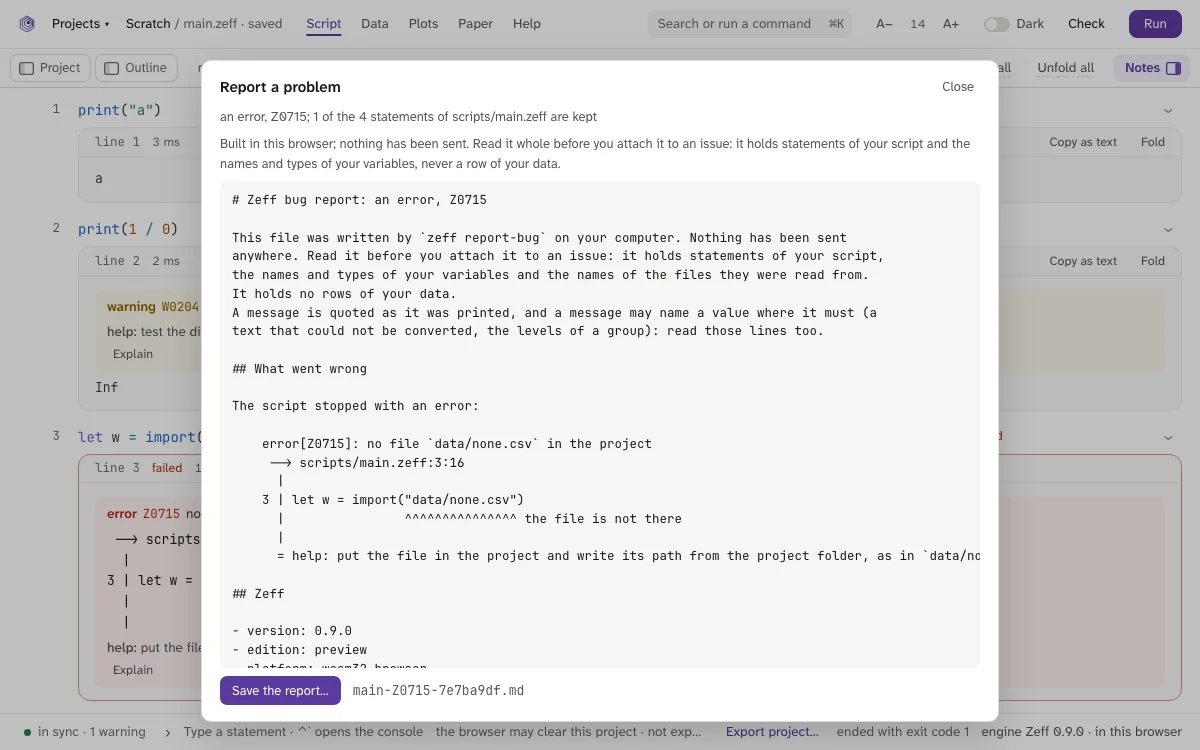
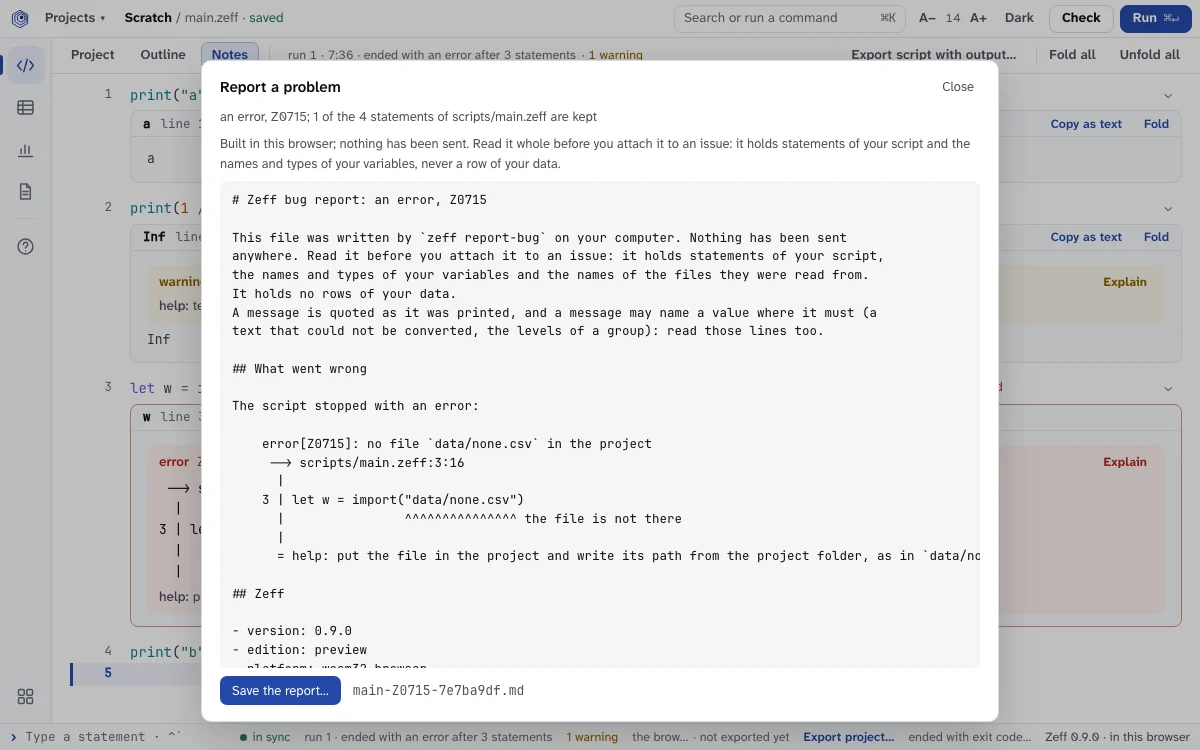
Bring the pages of Using Zemp Lite and their pictures to the new screens (release 0.3.1, step 14)
The pages say the projects' table, the row's Export…, Export all projects…, the list that Projects opens and the rows over each place; the fourteen pictures are made again from the running app. What the release built is listed, screen by screen, for the coordinating session.

Chromium is wholly green, and the nine checks of the address pass here against the built app. In WebKit on this computer, whose screen is locked, tests among the same 21 as before fail at a real press of the mouse; GitHub's check runs them.

diff --git a/tools/pictures/pictures.spec.ts b/tools/pictures/pictures.spec.ts
@@ -116,14 +116,16 @@ const SCENES: Record<string, (page: Page, press: Press) => Promise<void>> = {
     await page.getByLabel("The name of the new project").fill("Returns to schooling");
     await press(page.getByRole("button", { name: "Create" }));
     await expect(page.getByRole("status")).toHaveText(READY);
-    await press(page.getByTitle("Back to the projects of this browser"));
+    await press(places(page).getByRole("button", { name: "All projects" }));
     await press(page.getByRole("button", { name: "Actions for Returns to schooling" }));
     await expect(page.getByRole("menuitem", { name: "Export project…" })).toBeVisible();
   },
-  // Where the work is kept: the screen of projects, with its sentence on where they are kept.
+  // Where the work is kept: the screen of projects on a first visit, with its note on where
+  // they are kept at the foot of the column on the left.
   "the-screen-of-projects": async (page) => {
     await page.goto("/");
     await expect(page.getByRole("button", { name: /^Scratch project/ })).toBeVisible();
+    await expect(page.getByTestId("first-visit")).toBeVisible();
   },
   // Reporting a problem: the report of a script that fails, shown whole.
   "the-report": async (page, press) => {
@@ -145,7 +147,7 @@ const SCENES: Record<string, (page: Page, press: Press) => Promise<void>> = {
     // As a visitor who has not been given the sample before.
     await page.evaluate(() => localStorage.removeItem("zemp-scratch-paper"));
     await press(places(page).getByRole("button", { name: "Paper" }));
-    await expect(page.getByTestId("paper-path")).toHaveText("paper/paper.typ");
+    await expect(page.getByTestId("paper-path")).toContainText("paper/paper.typ");
     await expect(page.getByTestId("paper-pages")).toHaveText("1 page", { timeout: 60_000 });
     const picture = page.getByTestId("paper-page").first().locator("img");
     await expect

diff --git a/tests/browser/using-controls.spec.ts b/tests/browser/using-controls.spec.ts
@@ -162,8 +162,14 @@ const SCREENS: Record<
     await see();
     await scratch(page, press);
     await see();
+    // Back on the screen of projects, where the project has its row, with Export… at its end.
+    await press(page.getByRole("button", { name: "All projects" }));
+    await expect(page.getByRole("button", { name: "Actions for Scratch" })).toBeVisible();
+    await see();
   },
   "where-the-work-is-kept": async (page, press, see) => {
+    // The screen of projects, with its note and what exports every project; then a project.
+    await see();
     await scratch(page, press);
     await see();
   },
@@ -171,6 +177,11 @@ const SCREENS: Record<
     await scratch(page, press);
     await run(page, press);
     await see();
+    // The list that Projects opens, at the top left, has the report too.
+    await press(page.getByRole("button", { name: /^Projects/ }));
+    await expect(page.getByRole("menuitem", { name: "Report a problem…" })).toBeVisible();
+    await see();
+    await page.keyboard.press("Escape");
     // A script that fails, and its report.
     await write(
       page,

diff --git a/docs/decisions.md b/docs/decisions.md
@@ -3796,3 +3796,37 @@ The wait is there at the trial address every time and at the address once in fou
 
 **Tests.** Of the build's tool (`tools/facts.test.mjs`): the example is the kept script and its print is what the engine, run again, prints, to the character, and what the tool gives the build; an example that fails, prints nothing or is not three lines stops the build with a sentence. Browser, both engines (`start.spec.ts`): the headline's face, size, italic and accent, unbroken; its line; the three facts side by side under the button; the old band and words gone; the faint watermark; the foot; the page on one screen at 1,440 × 900, 1,280 × 800 and 1,024 × 768; the example as the kept script in the editor's colours, its print equal to the build's and to what the engine just started prints for it in a project; no line of it cut or broken at 1,440, 1,024 and 1,000 pixels; and, as before, the button grey until the engine runs, opened by the mouse and by Return, the bar, a failure and Try again, 12.5 pixels and 4.5 to 1 in both themes. The notice's tests hold it to the window at a phone's and an upright tablet's width (the watermark first made it 53 pixels wider than a phone's window; it is now held inside).
 
+## 28 November 2026: release 0.3.1, step 14: Using Zemp Lite and its pictures
+
+**Built.** The fourteen pages of Using Zemp Lite say what the new screens hold, and their fourteen pictures are made again by the picture suite (`npm run pictures`), in light, at 1,200 × 750 pixels, from the Scratch project. Five pages had been brought up to date with the step that changed their screen (Getting started's places, The notes, The Data place, The Plots place, Papers and PDFs, Finding help, Keyboard shortcuts); this step did the rest and read every page against the app.
+
+**What changed at this step, page by page.**
+
+- _Getting started_: the front page starts the engine and opens the app; the Scratch project is at the head of the column on the left.
+- _Projects, scripts and files_: the projects as a table (scripts, last run, size, opened, exported), a press on a row, **Find a project**, **Open** and **Export…** on a row beside its menu; **Project** is in the row over the script; a file that is read only says so at the top of the window.
+- _Running a script_ and _Sections and the outline_: "the row over the script" where they said "the bar".
+- _The Data place_ and _The Plots place_: what their pictures show.
+- _Where the work is kept_: the picture's words; the note at the foot of the screen of projects, with the room used; **Export all projects…**.
+- _Exporting and opening a project_: **Export…** on a row, **Projects** at the top left, **Export all projects…**, and that a browser may ask once about saving several files.
+- _Reporting a problem_: **Report a problem…** in **Projects**.
+- _Commands with ⌘K_, _The notes_, _Papers and PDFs_, _Finding help_, _Keyboard shortcuts_: read against the app, unchanged at this step.
+
+**For the owner to read, when he wishes:** the fourteen pages, in Help under Using Zemp Lite (their text is in `src/using/pages/`): Getting started; Projects, scripts and files; Running a script; The notes beside each statement; Sections and the outline; The Data place; The Plots place; Papers and PDFs; Finding help; Commands with ⌘K; Keyboard shortcuts; Exporting and opening a project; Where the work is kept; Reporting a problem.
+
+**For the coordinating session: what release 0.3.1 built, for section 5 of the Zemp Specification and the design guide.**
+
+- _Computers only (#243)._ Below 1,000 pixels of width a page over the app says Zemp Lite is made for a computer, with **Go on anyway** (kept for the visit). The phone layouts are gone. Where the pointer is a finger, whatever is pressed is at least 32 pixels.
+- _Cobalt (#244)._ The accent and its hover, soft and button values in both themes; a function's name in teal and an operator in slate in code; cool greys.
+- _The frame (#245; #33 amended)._ A top bar of 38 pixels: **Projects ▾** (All projects, Export project…, Rename project…, Report a problem…), the project and file with `saved`, the field of commands, the code's size, **Dark**, **Check**, **Run**. A side menu of 52 pixels: five icons (Script, Data, Plots, Paper, Help) and **All projects**, each named with what it holds and its key on hover and on focus; ⌘1 to ⌘5. A line of 26 pixels at the foot: the console's field, how the results stand to the script, the run's line, the warnings, the reminder on where the work is kept with **Export project…**, and the engine.
+- _Script._ A row of 36 pixels: **Project**, **Outline**, **Notes** as words, the run's line, **Export script with output…**, **Fold all**, **Unfold all**. A result's head on one line (name, line, time, **Copy as text**, **Fold**); **Explain** opens the code's page in Help, which links back to the line; a note leads to Data or Plots; a function's card under the pointer and by ⇧F1.
+- _Data._ One row: the frames as a menu, the frame's facts, **Data** and **Variables**, **Keep rows where**, **Search the cells**, **Copy as Zeff**. Rows of 25 pixels. A column selected by its head, with its summary in a line under the table.
+- _Plots._ The run's plots as a strip in the row, with **Compare**; **Fit**, **One column**, **Two columns**, **Slide**; **Pop out**; the plot under the row; a panel of 300 pixels at the right (**The plot**) with its statement, the format, **Save…** and the statement that saves it.
+- _Paper._ A row: **Project**, **Outline**, the paper and where its tables and figures come from, **Close**, **New paper…**, **Export PDF…**, **Page**. The Outline lists tables and figures among the headings.
+- _Help._ The index at the left: the search field (/), **Start here**, **Packages**, **Functions**, **Errors and warnings**, **Using Zemp Lite**; what the search finds stands in the index's place. **Back**, **Forward**, **Home** and the trail in the bar. **See also** under "On this page". **Try in the console** under an example.
+- _The projects screen._ A column (Scratch project, New project…, Open project…, Open folder… for the desktop app; the note, the room used, **Export all projects…**) and the projects as a table with a field that finds one, **Open**, **Export…** and a menu on each row, and three cards. The browser remembers how each project's last run went.
+- _The front page._ The headline, its line, **Start**, three facts; the engine's card with three lines of script and their print from the carried engine; the versions and the licence at the foot.
+- _Kept with a project._ The view file is at version 6: the panes of Data and of Plots are as the steps left them.
+- _Drawn in the mockup and not built, each for a ruling:_ a favicon; ⇧⌘E; the coloured dots of a note's kind; "Past runs" in the Project panel; a page "Coming from R or Stata"; the app working with no network; a regression's table on the front page. _Found in the engine:_ 64 of its 266 help pages have no section on R and Stata, `reg`'s among them. _Counted here:_ a figure's number in a paper's Outline, in the order of the paper.
+
+**Tests.** The help suite (`using-controls.spec.ts`): every control a page names is on the screen by that name, with the scenes extended to the projects' table with a row, the note on the screen of projects, and the list **Projects** opens; the unit test that holds the pages and the pictures to each other; the pictures' suite, whose scenes for the menu of a project, the screen of projects and the Paper place were brought to the new screens. Each of the fourteen pictures was looked at: none shows the old frame.
+

diff --git a/src/using/pages/projects-scripts-and-files.md b/src/using/pages/projects-scripts-and-files.md
@@ -4,13 +4,13 @@ A project is a folder of scripts and data kept in this browser: make one, fill i
 
 ## Projects
 
-The screen of projects lists the projects this browser keeps. **New project…** makes one, with a first script. **Scratch project** is always there, with its examples, for trying things. From inside a project, **All projects**, at the foot of the icons down the left, goes back to the list. **Projects**, at the top left, opens a short list for the project as a whole: back to all projects, export it, rename it, report a problem.
+The screen of projects lists the projects this browser keeps, as a table, the one opened last first: each with its scripts, how its last run went here (clean, with warnings, stopped by an error, or not run), its size, and when it was opened and exported. Press a row to open its project. **Find a project**, over the table, keeps the rows whose name, or a script's name, holds what you type. In the column on the left, **New project…** makes one, with a first script, and **Scratch project** is always there, with its examples, for trying things. From inside a project, **All projects**, at the foot of the icons down the left, goes back to the list. **Projects**, at the top left, opens a short list for the project as a whole: back to all projects, export it, rename it, report a problem.
 
-Each project in the list has a menu at the right of its row: **Rename…**, **Duplicate…**, **Export project…** and **Delete…**. The Scratch project cannot be renamed or deleted; it can be duplicated into a project of your own, and reset to its examples.
+Each project in the table has **Open** and **Export…** at the end of its row, and beside them a menu: **Rename…**, **Duplicate…**, **Export project…** and **Delete…**. The Scratch project cannot be renamed or deleted; it can be duplicated into a project of your own, and reset to its examples.
 
 ## The files of a project
 
-**Project**, at the left of the bar under the top bar, opens the pane of the project's files. Press a file to open it.
+**Project**, at the left of the row over the script, opens the pane of the project's files. Press a file to open it.
 
 ![The Script place with the Project pane open at the left: the folders of the Scratch project, scripts and data, with a menu button at the right of each row.](the-project-pane)
 
@@ -19,7 +19,7 @@ The **+** at the head of the list, beside the project's name, adds to the projec
 - **New script** and **New folder**: type the name in the row where it will stand.
 - **Add files…**: data files from this computer, which a script can then read.
 
-A script, a paper and a plain note open to be written. Any other file that is text, such as a table a script exported or a data file of comma-separated values, opens to be read: its tab says that it is read only, and nothing typed changes it. A file that is not text does not open; **Save a copy…**, in its menu, saves it to this computer.
+A script, a paper and a plain note open to be written. Any other file that is text, such as a table a script exported or a data file of comma-separated values, opens to be read: the line at the top of the window says that it is read only, beside its name, and nothing typed changes it. A file that is not text does not open; **Save a copy…**, in its menu, saves it to this computer.
 
 Each file and folder has a menu at the right of its row: **Rename…**, **Move to…**, **Duplicate**, **Delete…** and **Save a copy…**, which saves the file to this computer. The files Zeff opens by name, the main script and `zeff.toml` among them, keep their names and places: their menus have no rename, move or delete.
 

diff --git a/src/using/pages/where-the-work-is-kept.md b/src/using/pages/where-the-work-is-kept.md
@@ -8,14 +8,14 @@ A project lives in the private storage this browser gives the app. Nothing of it
 
 What you type is saved as you type it. The line at the top of a project says `saved` beside the file's name when it is.
 
-![The screen of projects: four cards, New project…, Open project…, Open folder… and Scratch project; under them the note that says where projects are kept and how one is taken out; and at the right, where recent projects are listed, the words No project yet and a button that opens the Scratch project.](the-screen-of-projects)
+![The screen of projects on a first visit: at the left a column with Scratch project, New project…, Open project… and Open folder…, and at its foot the note that says where projects are kept, with Export all projects… under it; at the right the table of projects, with the Scratch project alone in it, and three cards under the table.](the-screen-of-projects)
 
 ## What can remove it
 
 - Clearing the site's data in the browser removes every project.
-- A browser may clear the storage by itself when the computer runs short of room. The app asks the browser not to, and the screen of projects says whether it has agreed.
+- A browser may clear the storage by itself when the computer runs short of room. The app asks the browser not to, and the note at the foot of the screen of projects says whether it has agreed. Where the browser tells it, the note also says how much room the app's data takes.
 - In a private window nothing is kept: a project lasts until the tab is closed, and the screen says so.
 
 ## The reminder
 
-Where the browser may clear a project, or a project has not been exported for thirty days, the foot of the window says so, with **Export project…** beside it. A zip on this computer is the copy that is yours to keep: see [Exporting and opening a project](exporting-and-opening-a-project).
+Where the browser may clear a project, or a project has not been exported for thirty days, the foot of the window says so, with **Export project…** beside it. A zip on this computer is the copy that is yours to keep: see [Exporting and opening a project](exporting-and-opening-a-project). **Export all projects…**, under the note on the screen of projects, saves every project at once, each as a zip of its own.

diff --git a/docs/progress.md b/docs/progress.md
@@ -94,6 +94,8 @@ Opened on the owner's word once Zeff 0.9.0 was released, planned (`docs/releases
 
 **Done, step 13 `[function]`.** The front page (#245, as completed): the headline "Reproducible empirical research, in your browser.", its line, Start, three facts; the engine's card with its three steps and three lines of script with what the engine prints for them, taken at the build; the watermark faint; a foot with the versions and the licence. The narrow window's notice is drawn the same way. Green in Chromium; in WebKit here the same tests as before fail at the locked screen.
 
-**Next.** Step 14 `[function]`: Using Zemp Lite's fourteen pages and their fourteen pictures remade for the new screens.
+**Done, step 14 `[function]`.** Using Zemp Lite (#245): the fourteen pages say what the new screens hold, and their fourteen pictures are made again from the running app; none shows the old frame. What 0.3.1 built is listed, screen by screen, for the coordinating session (the entry of step 14 in `docs/decisions.md`). Green in Chromium; in WebKit here the same tests as before fail at the locked screen.
+
+**Next.** Step 15 `[engine]`: the pre-release routine of the testing handbook, section 2.4, the notes of the release and the registers; the release itself waits for the owner's "Release 0.3.1".
 
 **For the owner to decide.** Nothing. **His to read when he wishes:** the words of the page a narrow window is shown (the entry of step 3 in `docs/decisions.md`, choice 4). **For him to know:** at a tablet's width the foot shortens the note on where the work is kept to its last words ("… · not exported yet"), the one text of the frame that is shortened there (step 5, choice 4); and Data's row shortens a panel's facts there ("15,571 rows × 13 variables · panel worker × year"), whole in the frames' menu (step 8a, choice 5). **His to try by hand, in his own browser:** whether ⌘1 to ⌘5 open the places or the browser keeps them for its tabs (step 4, choice 5).

diff --git a/docs/releases/0.3.1.md b/docs/releases/0.3.1.md
@@ -78,5 +78,5 @@ To be shown to him as they are met, not asked now: the front page and the projec
 
 ### E. Help agrees, and the release
 
-- [ ] **14. [function] Using Zemp Lite and its pictures.** The 14 pages say what the new screens hold: the side menu, the rows, the menus and the projects table. The 14 pictures are made again by the picture suite, in light, with the Scratch project. The pages are listed for the owner to read, and what was built is listed for the coordinating session, for section 5 of the Zemp Specification and the design guide. Tests: the help suite (every name of a control a page uses found on screen); the pictures' suite. Done when: the routine is green and no page or picture shows the old frame.
+- [x] **14. [function] Using Zemp Lite and its pictures.** The 14 pages say what the new screens hold: the side menu, the rows, the menus and the projects table. The 14 pictures are made again by the picture suite, in light, with the Scratch project. The pages are listed for the owner to read, and what was built is listed for the coordinating session, for section 5 of the Zemp Specification and the design guide. Tests: the help suite (every name of a control a page uses found on screen); the pictures' suite. Done when: the routine is green and no page or picture shows the old frame.
 - [ ] **15. [engine] The pre-release routine.** The whole routine in both engines at a laptop's size and at 1,024 × 768. The measure against R4, with what the release added to the bundle, expected under 10 KB packed. The first start no slower than at 0.3. The trial address, then the address. `docs/releases/0.3.1-notes.md` (what changed, the rulings, the tests replaced and why, the measures, known issues). The registers reviewed for the coordinating session. Done when: both addresses pass every check and the notes are complete; the release itself (version `0.3.1`, tag `v0.3.1`, the GitHub release with its notes) waits for the owner's word "Release 0.3.1".

diff --git a/src/using/pages/exporting-and-opening-a-project.md b/src/using/pages/exporting-and-opening-a-project.md
@@ -4,7 +4,9 @@ A project leaves the browser as one zip, and comes back from one: to keep it saf
 
 ## Exporting
 
-**Export project…** saves the project as a zip on this computer. It is in three places: in a project's menu on the screen of projects; in the list of commands, as `Project: export…`, while the project is open; and at the foot of the window, beside the reminder to export, when there is one.
+**Export project…** saves the project as a zip on this computer. On the screen of projects, **Export…** at the end of a project's row saves it without opening it, and the menu beside it has the same. With the project open, it is in **Projects**, at the top left; in the list of commands, as `Project: export…`; and at the foot of the window, beside the reminder to export, when there is one.
+
+**Export all projects…**, at the foot of the column on the left of the screen of projects, saves every project of this browser, each as a zip of its own. A browser may ask, once, whether this site may save several files.
 
 ![The screen of projects with the menu of a project's row open: Rename…, Duplicate…, Export project… and Delete….](the-menu-of-a-project)
 

diff --git a/src/using/pages/the-plots-place.md b/src/using/pages/the-plots-place.md
@@ -6,7 +6,7 @@ See every plot of the last run, compare them side by side, and save one at the s
 
 A plot is drawn under the statement that made it, in the script. Open Plots, the third of the icons down the left, to see the plots of the last run together: a strip of small pictures across the top, and the one you choose drawn large under it. In the script, the arrow beside a plot's note opens Plots on that plot.
 
-![The Plots place: a strip of the run's plots at the left, the chosen plot drawn large in the middle, and at the right its statement and the size it would be saved at.](the-plots-place)
+![The Plots place: a strip of the run's plots across the top, with the sizes a plot is drawn at beside it; the chosen plot drawn large under it; and at the right a panel with its statement, the format and Save….](the-plots-place)
 
 The panel at the right gives the plot's statement and its line, which goes to the statement in the script, and under them the format, **Save…** and the statement that saves the figure. **The plot**, at the end of the row, hides the panel and shows it again, so that the plot can have the place's whole width.
 

diff --git a/src/using/pages/the-data-place.md b/src/using/pages/the-data-place.md
@@ -6,7 +6,7 @@ Look at the frames a run made: sort them, keep some rows, search them, and read 
 
 Run the script, then open Data, the second of the icons down the left. The row over the table names the frame shown, with its size and the line of the statement that made it. Press the frame's name there for the list of the frames the run made, and press one to show it. In the script, the note of a frame opens Data on that frame.
 
-![The Data place: the frames of the run listed at the left, and in the middle the rows of a frame as a table, each column headed by its name, its type and a small picture of its values.](the-data-place)
+![The Data place: one row over the table, with the frame's name, its size and the line that made it, the words Data and Variables, and the fields that keep and search rows; under it the rows of a frame as a table, each column headed by its name, its type and a small picture of its values.](the-data-place)
 
 Each column is headed by the variable's name, its type, how many of its values are missing, and a small picture of how its values are spread. A missing value is written `NA`, never left blank.
 

diff --git a/src/using/pages/running-a-script.md b/src/using/pages/running-a-script.md
@@ -20,6 +20,6 @@ On Windows and Linux, <kbd>Ctrl</kbd> takes the place of <kbd>⌘</kbd>.
 
 ## How the run went
 
-The bar over the script says which run this is, when it was made, how many statements it ran and how long they took. The line at the foot of the window says how the results stand to the script: in sync, or stale after an edit.
+The row over the script says which run this is, when it was made, how many statements it ran and how long they took. The line at the foot of the window says how the results stand to the script: in sync, or stale after an edit.
 
 If a statement fails, its error is shown under it, with the line and what to do, and the statements after it are marked `not run`. A warning does not stop a run: it is shown over the result it is about, with **Explain** to open the page of its code.

diff --git a/src/using/pages/reporting-a-problem.md b/src/using/pages/reporting-a-problem.md
@@ -4,7 +4,7 @@ When a script fails in a way that looks like a fault of Zeff, the app builds a r
 
 ## Building the report
 
-With the project open, press <kbd>⌘K</kbd> and choose `Report a problem`. The engine runs the script, then the failing statement with only the statements it needs, and writes what it found.
+With the project open, press <kbd>⌘K</kbd> and choose `Report a problem`, or choose **Report a problem…** in **Projects**, at the top left. The engine runs the script, then the failing statement with only the statements it needs, and writes what it found.
 
 ![The window Report a problem over the script: what the report is, a sentence saying nothing has been sent, the text of the report, and the button Save the report….](the-report)
 
